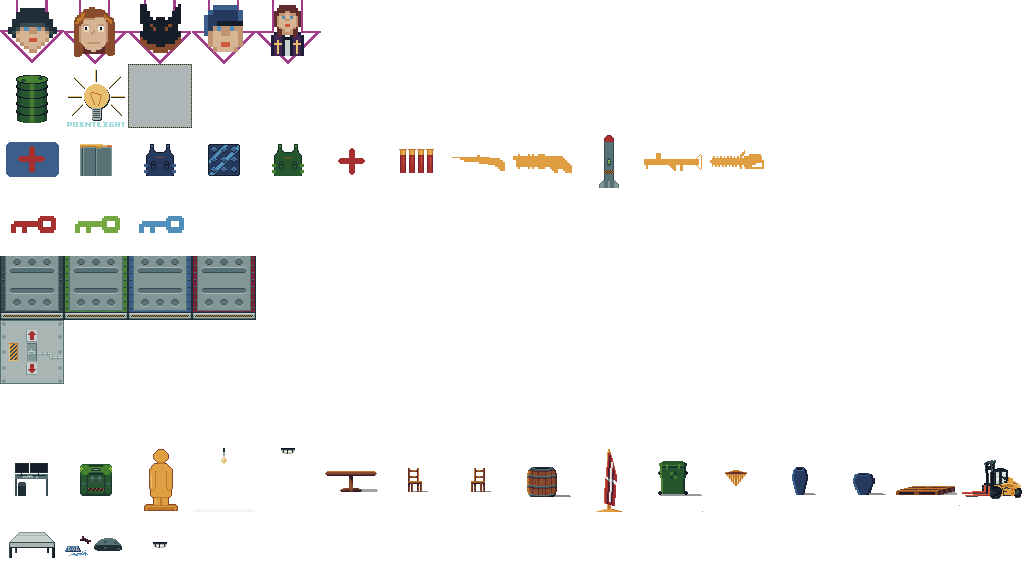
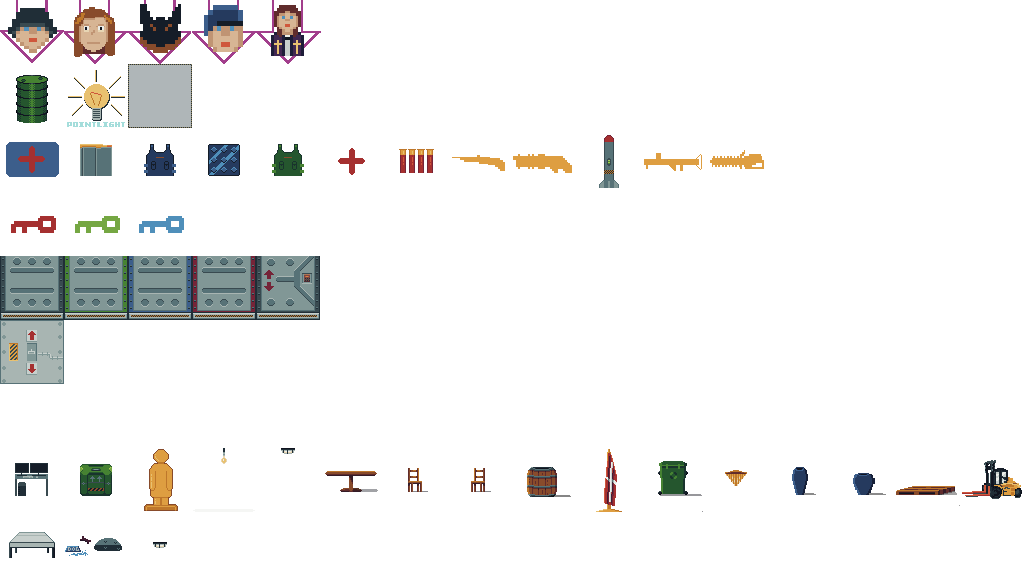
added elevator door

Changed region(s): [[0.25, 0.4375, 0.3125, 0.5625]]

diff --git a/source code/assets/maps/Assets.tsx b/source code/assets/maps/Assets.tsx
@@ -128,6 +128,7 @@
  <tile id="64">
   <properties>
    <property name="color" value=""/>
+   <property name="isElevator" type="bool" value="false"/>
    <property name="isLocked" type="bool" value="false"/>
    <property name="name" value="door"/>
   </properties>
@@ -135,6 +136,7 @@
  <tile id="65">
   <properties>
    <property name="color" value="green"/>
+   <property name="isElevator" type="bool" value="false"/>
    <property name="isLocked" type="bool" value="false"/>
    <property name="name" value="door"/>
   </properties>
@@ -142,6 +144,7 @@
  <tile id="66">
   <properties>
    <property name="color" value="blue"/>
+   <property name="isElevator" type="bool" value="false"/>
    <property name="isLocked" type="bool" value="false"/>
    <property name="name" value="door"/>
   </properties>
@@ -149,6 +152,15 @@
  <tile id="67">
   <properties>
    <property name="color" value="red"/>
+   <property name="isElevator" type="bool" value="false"/>
+   <property name="isLocked" type="bool" value="false"/>
+   <property name="name" value="door"/>
+  </properties>
+ </tile>
+ <tile id="68">
+  <properties>
+   <property name="color" value=""/>
+   <property name="isElevator" type="bool" value="true"/>
    <property name="isLocked" type="bool" value="false"/>
    <property name="name" value="door"/>
   </properties>

diff --git a/source code/core/src/no/sandramoen/terfenstein3D/actors/Door.java b/source code/core/src/no/sandramoen/terfenstein3D/actors/Door.java
@@ -28,7 +28,7 @@ public class Door extends BaseActor3D {
     private BaseActor closeActor;
     private BaseActor3D temp;
 
-    public Door(float y, float z, Stage3D stage3D, Stage stage, float rotation, Player player, String keyColor, Array<BaseActor3D> shootable, Boolean isLocked) {
+    public Door(float y, float z, Stage3D stage3D, Stage stage, float rotation, Player player, String keyColor, Array<BaseActor3D> shootable, Boolean isLocked, Boolean isElevator) {
         super(0, y, z, stage3D);
         this.player = player;
         this.keyColor = keyColor;
@@ -43,6 +43,8 @@ public class Door extends BaseActor3D {
             loadImage("doors/doorGreen");
         else if (keyColor.equalsIgnoreCase("blue"))
             loadImage("doors/doorBlue");
+        else if (isElevator)
+            loadImage("doors/door1");
         else if (this.isLocked)
             loadImage("doors/door0Locked");
         else

diff --git a/source code/core/src/no/sandramoen/terfenstein3D/screens/gameplay/level/MapLoader.java b/source code/core/src/no/sandramoen/terfenstein3D/screens/gameplay/level/MapLoader.java
@@ -188,9 +188,16 @@ public class MapLoader {
             float x = props.get("x", Float.class) * BaseGame.unitScale;
             float y = props.get("y", Float.class) * BaseGame.unitScale;
             float rotation = getRotation(props);
+            boolean isElevator = false;
+            try {
+                isElevator = props.get("isElevator", Boolean.class);
+
+            } catch (Exception e) {
+
+            }
             String key = props.get("color", String.class);
             Boolean isLocked = props.get("isLocked", Boolean.class);
-            Door door = new Door(x, y, stage3D, stage, rotation, player, key, shootable, isLocked);
+            Door door = new Door(x, y, stage3D, stage, rotation, player, key, shootable, isLocked, isElevator);
 
             doors.add(door);
             shootable.add(door);
